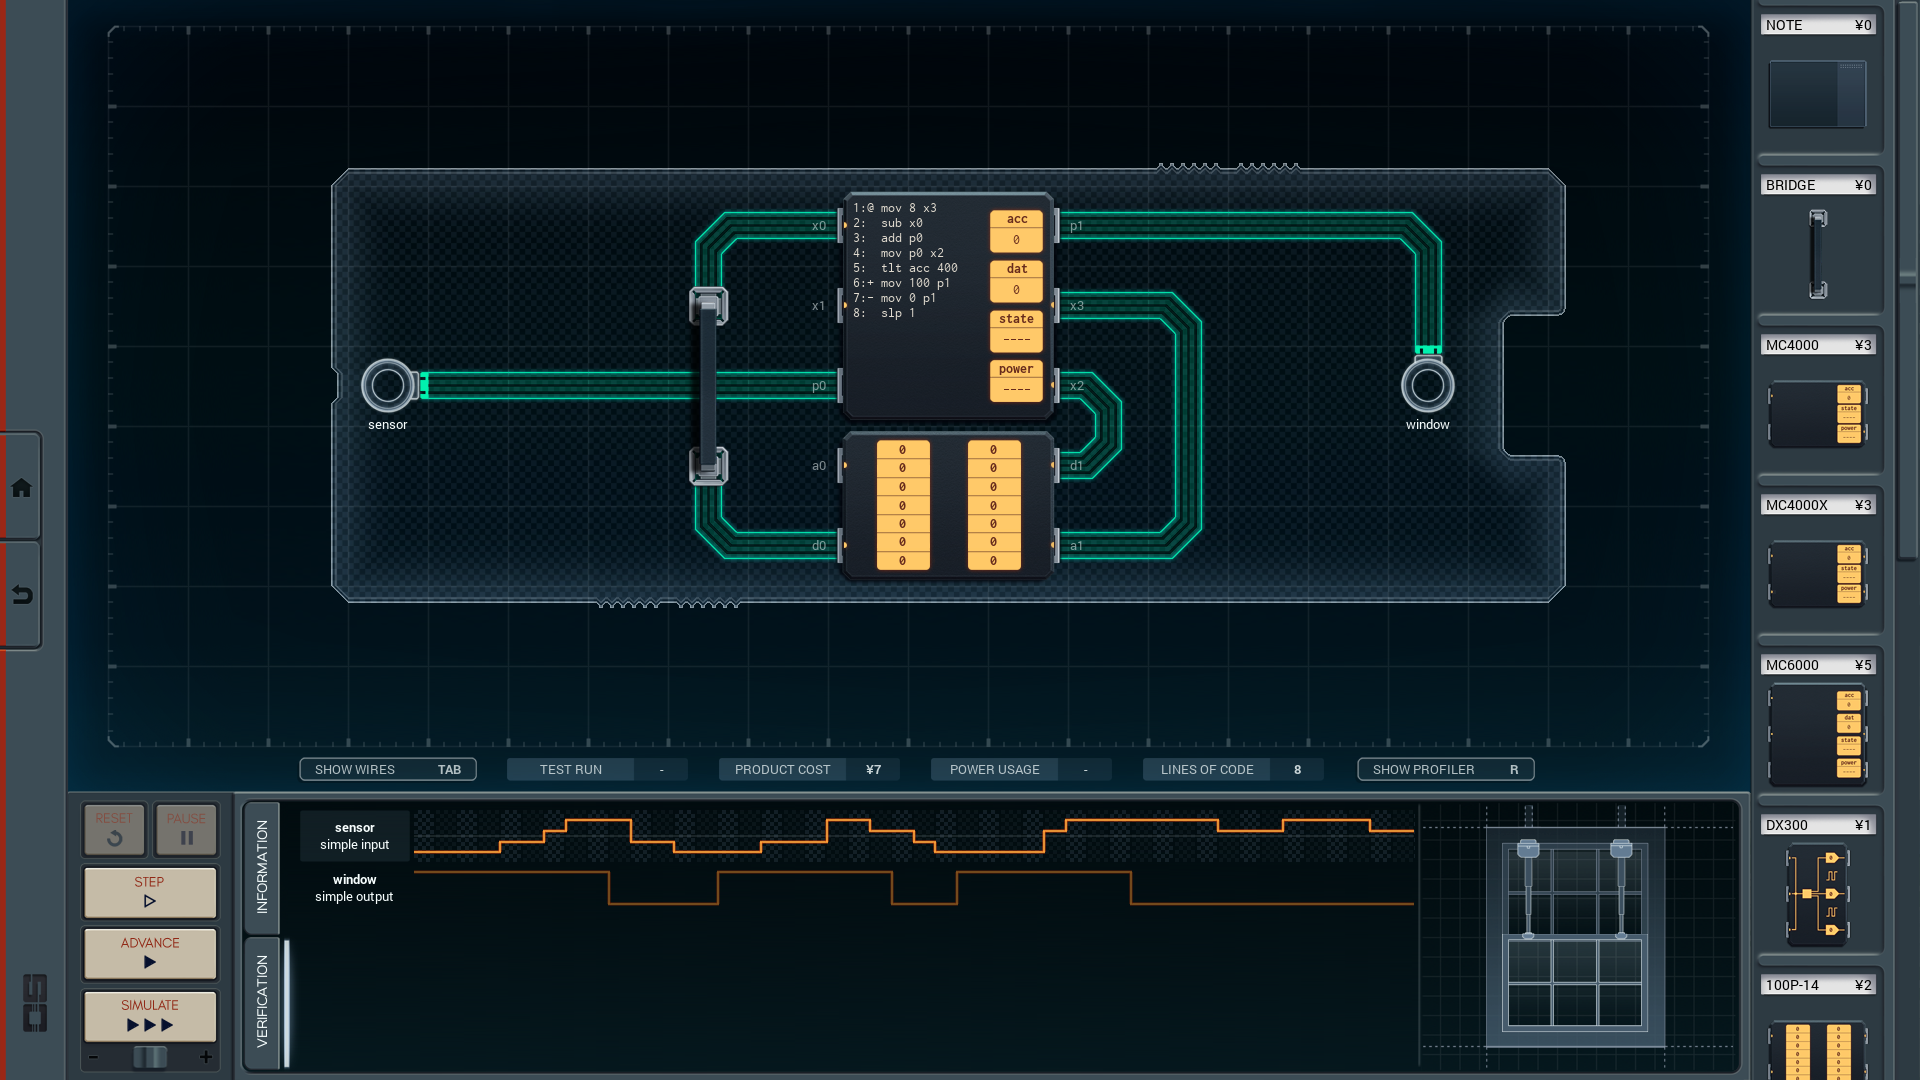
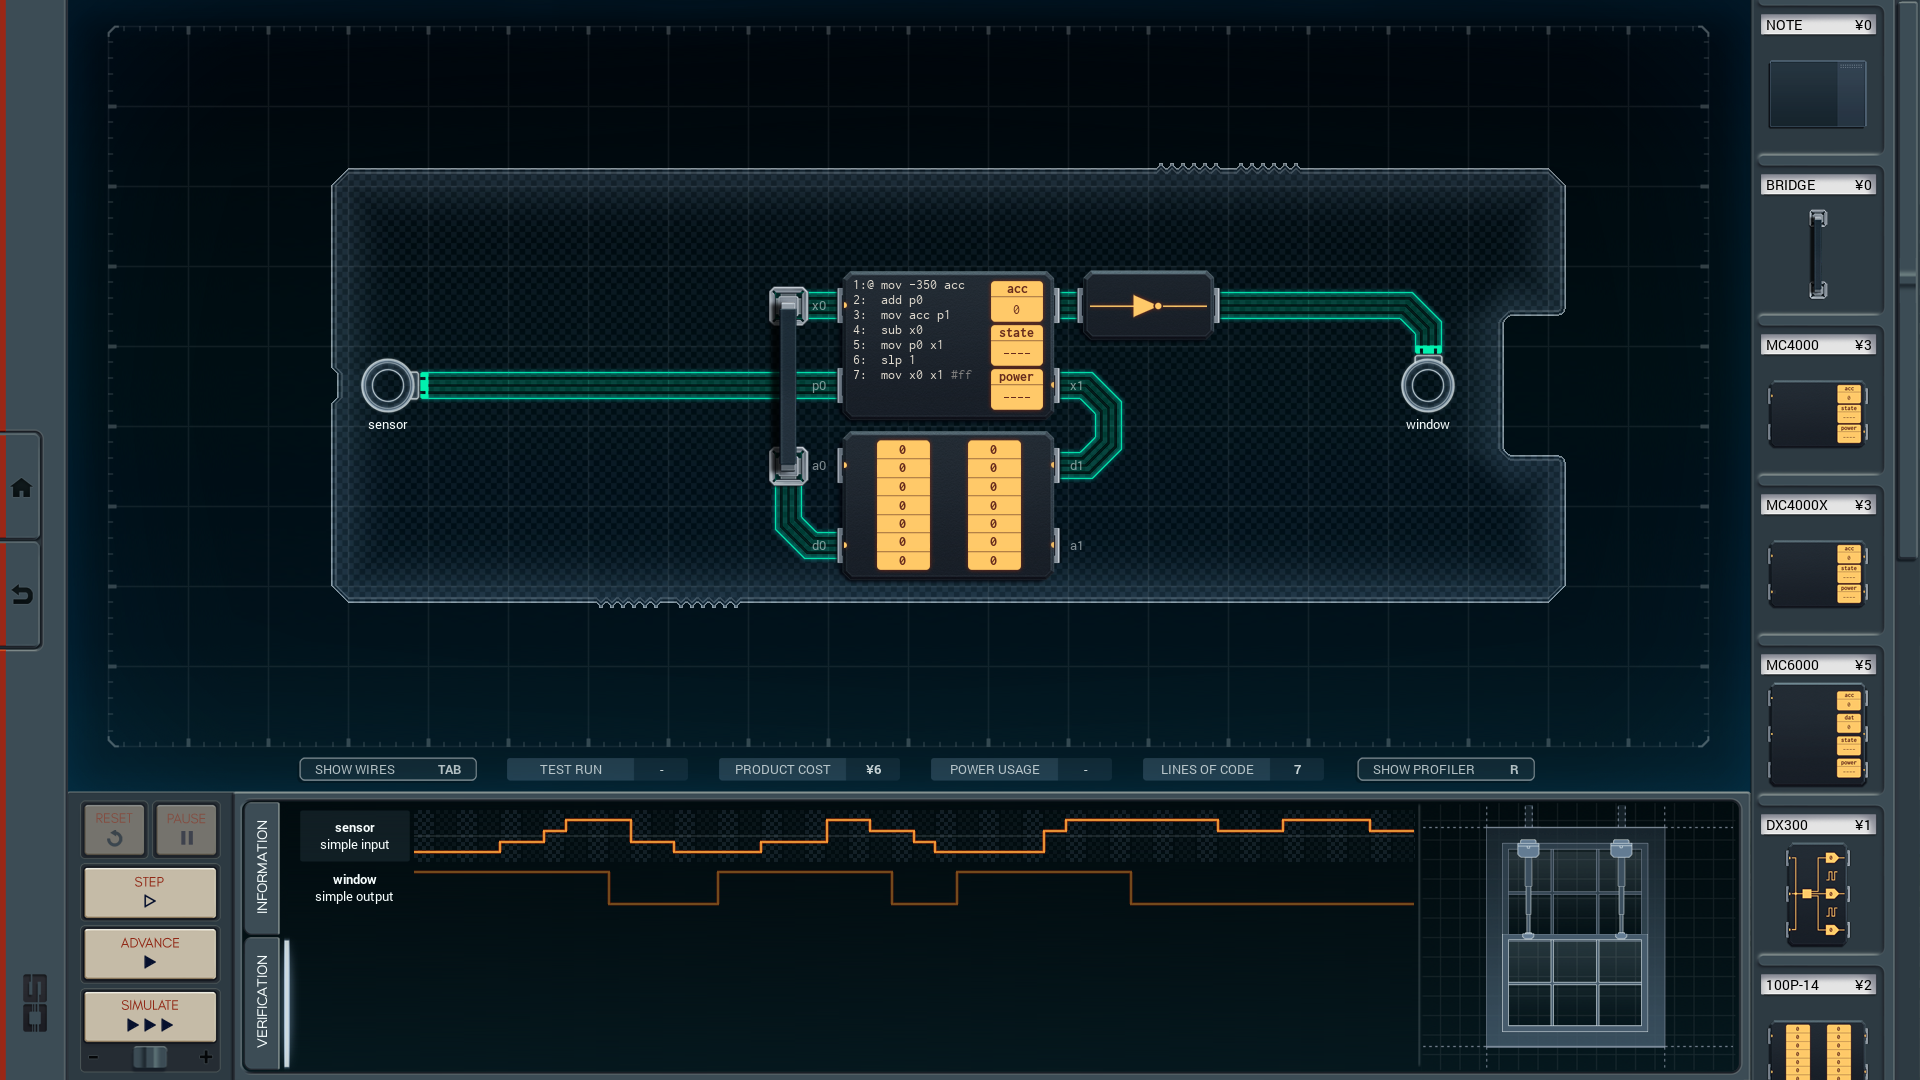
2022/09/09 Optimized the Pollution Sensing Smart Window solution [BEF] 7C / 277P / 8L [AFT] 6C / 276P / 7L

Changed region(s): [[0.3438, 0.1528, 0.75, 0.5194]]

diff --git a/023-pollution-sensing-smart-window/README.md b/023-pollution-sensing-smart-window/README.md
@@ -1,4 +1,4 @@
-7/277/8 SOLUTION
+6/276/7 SOLUTION
 ----------------
 
 ![screenshot0](https://github.com/shiawasenahikari/Shenzhen-IO-Solutions/blob/master/023-pollution-sensing-smart-window/screenshot0.png)
